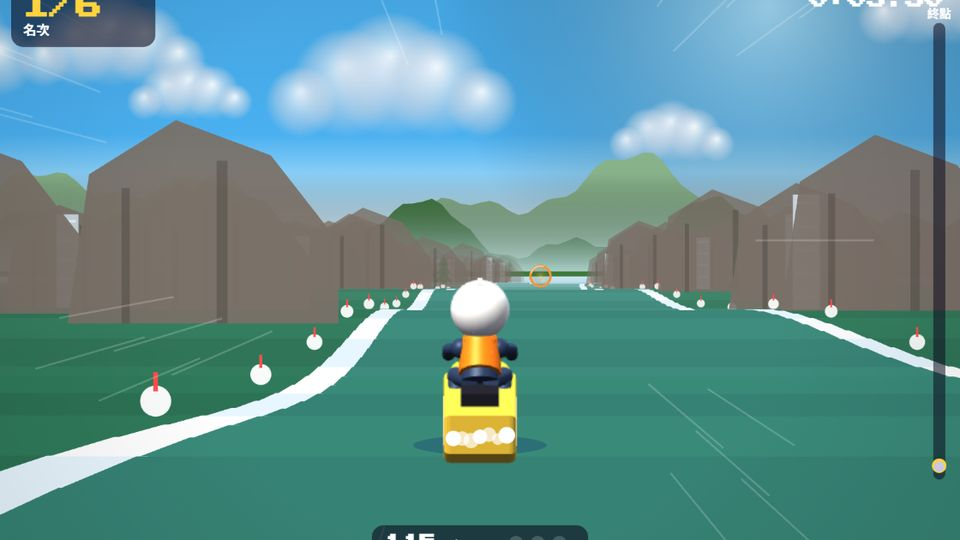
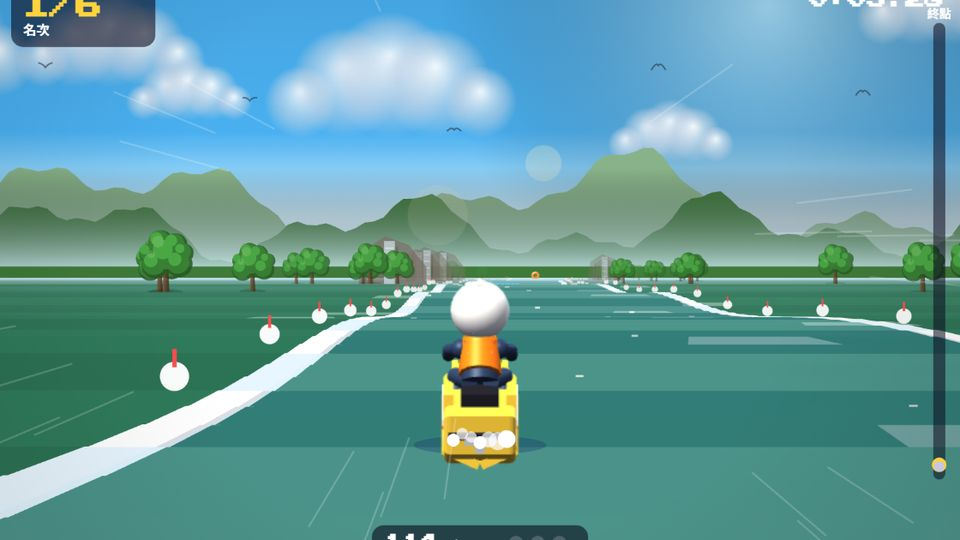
v264 快艇、機車、推桿、撞球、枕頭戰畫面精緻化；推桿與撞球鏡頭更立體、加周圍景色與房間佈置；封面更新

diff --git a/golf3d.js b/golf3d.js
@@ -19,7 +19,7 @@ function make(T,o){ const {W,H,CS,GW,GH,OX,OY,BR,HR,TT,hash,drawStatic,ci}=o,PI=
   /* 每一洞要重建的東西都放在 holeG */
   let holeG=null,O=null,dyn=null,waterCv=null,waterTx=null,waterM=null;
   const railM=ph(TT.railC,TT.rail==='metal'?90:15),capM=ph(new T.Color(TT.railC).multiplyScalar(1.15).getStyle(),20);
-  const decoMesh=(k,x,z,rr)=>{ const g=new T.Group(); g.position.set(x,0,z); holeG.add(g);
+  const decoMesh=(k,x,z,rr,par,sc)=>{ const g=new T.Group(); g.position.set(x,0,z); if(sc){ g.scale.setScalar(sc); g.rotation.y=rr*7; } (par||holeG).add(g);
     if(k==='tree'||k==='rose'||k==='fern'){ const tr=add(new T.CylinderGeometry(.06,.09,.6,8),ph('#6a4a2a'),0,.3,0,g); const leaf=ph(k==='fern'?'#2a6a28':'#3f8a32'); for(let i=0;i<5;i++) add(new T.SphereGeometry(.28+hash(i+x)*.08,10,8),leaf,Math.cos(i*1.26)*.18,.75+(i%2)*.15,Math.sin(i*1.26)*.18,g); if(k==='rose') for(let i=0;i<6;i++) add(new T.SphereGeometry(.05,6,5),ph(['#e8304a','#ff7eb6','#fff'][i%3]),Math.cos(i)*.3,.85+Math.sin(i*2)*.15,Math.sin(i)*.3,g); }
     else if(k==='pine'){ add(new T.CylinderGeometry(.05,.07,.3,8),ph('#5a3a22'),0,.15,0,g); for(let i=0;i<3;i++) add(new T.ConeGeometry(.42-i*.1,.5,10),ph(i%2?'#2f5a3a':'#3a6a44'),0,.45+i*.3,0,g); add(new T.ConeGeometry(.12,.18,10),ph('#ffffff'),0,1.18,0,g); }
     else if(k==='cactus'){ const cm=ph('#4a8a3a'); add(new T.CylinderGeometry(.1,.11,.8,10),cm,0,.4,0,g); for(const s of [-1,1]){ const a=add(new T.CylinderGeometry(.06,.06,.3,8),cm,s*.17,.5+s*.08,0,g); add(new T.CylinderGeometry(.06,.06,.18,8),cm,s*.1,.4+s*.08,0,g).rotation.z=PI/2; } }
@@ -27,21 +27,37 @@ function make(T,o){ const {W,H,CS,GW,GH,OX,OY,BR,HR,TT,hash,drawStatic,ci}=o,PI=
     else if(k==='vent'){ add(new T.BoxGeometry(.5,.35,.4),ph('#a8b0bc',60),0,.18,0,g); }
     else if(k==='plank'){ add(new T.BoxGeometry(.6,.05,.6),ph('#8a6038'),0,.02,0,g); }
     else if(k==='star'){ add(new T.SphereGeometry(.06,6,5),new T.MeshBasicMaterial({color:0xcfe0ff}),0,.8+rr*2,0,g); } };
+  /* 周圍景色：天空、遠山、四周的樹與雲，讓球場像在真的地方 */
+  const envG=new T.Group(); scene.add(envG); const hz=TT.sky||(space?'#05060f':TT.haz==='lava'?'#3a1a14':'#a8d4f0');
+  { const sc=document.createElement('canvas'); sc.width=8; sc.height=256; const x=sc.getContext('2d'),g=x.createLinearGradient(0,0,0,256); g.addColorStop(0,space?'#000008':TT.haz==='lava'?'#120608':TT.deco==='pine'?'#6a9ad8':'#3a7ae0'); g.addColorStop(.5,hz); g.addColorStop(1,space?'#141838':TT.haz==='lava'?'#5a2010':'#e8f4ff'); x.fillStyle=g; x.fillRect(0,0,8,256);
+    const dome=new T.Mesh(new T.SphereGeometry(90,24,16),new T.MeshBasicMaterial({map:new T.CanvasTexture(sc),side:T.BackSide,fog:false})); scene.add(dome);
+    if(night){ const sg=new T.BufferGeometry(),pts=[]; for(let i=0;i<500;i++){ const a=hash(i*3.1)*PI*2,b=hash(i*7.7)*.5+.05,R=85; pts.push(Math.cos(a)*Math.cos(b)*R,Math.sin(b)*R,Math.sin(a)*Math.cos(b)*R); } sg.setAttribute('position',new T.Float32BufferAttribute(pts,3)); scene.add(new T.Points(sg,new T.PointsMaterial({color:0xffffff,size:.35,fog:false}))); }
+    scene.fog=new T.Fog(new T.Color(hz),30,85); scene.background=null; }
+  { const tc=document.createElement('canvas'); tc.width=tc.height=128; const x=tc.getContext('2d'); x.fillStyle=TT.out; x.fillRect(0,0,128,128); for(let i=0;i<900;i++){ x.fillStyle=i%3?TT.out2:'rgba(0,0,0,.08)'; x.fillRect(hash(i*1.3)*128,hash(i*2.9)*128,1+hash(i)*2,1+hash(i*5)*2); } const tx=new T.CanvasTexture(tc); tx.wrapS=tx.wrapT=T.RepeatWrapping; tx.repeat.set(40,40); outer.material.map=tx; outer.material.color=col('#ffffff'); outer.material.needsUpdate=true; outer.geometry=new T.PlaneGeometry(200,200); }
+  if(TT.outWater){ const wm=new T.MeshPhongMaterial({color:col('#2a78b8'),shininess:90,specular:0x88aacc,transparent:true,opacity:.92}); const wp=add(new T.PlaneGeometry(200,200),wm,0,-.005,0,envG); wp.rotation.x=-PI/2; wp.receiveShadow=false; for(let i=0;i<4;i++){ const b=new T.Group(); b.position.set(-30+i*20,0,-24-hash(i)*8); envG.add(b); add(new T.BoxGeometry(2.4,.5,.9),ph('#e8e0d0'),0,.25,0,b); add(new T.CylinderGeometry(.04,.04,2.4,6),ph('#8a6a4a'),0,1.5,0,b); const sl=add(new T.ConeGeometry(.8,1.8,3),ph('#ffffff'),.3,1.6,0,b); sl.rotation.z=.1; } }
+  const hillC=TT.haz==='lava'?'#2a1a1c':space?null:TT.deco==='pine'?'#e8f0f8':TT.deco==='cactus'?'#d0a060':TT.deco==='vent'?null:'#5a8a5a';
+  if(hillC) for(let i=0;i<18;i++){ const a=i/18*PI*2+hash(i)*.2,R=48+hash(i*3)*14,h=6+hash(i*5)*10; const m=add(new T.ConeGeometry(8+hash(i*7)*8,h,7),new T.MeshLambertMaterial({color:col(hillC).offsetHSL(0,0,(hash(i*9)-.5)*.12),flatShading:true}),Math.cos(a)*R,h/2-.5,Math.sin(a)*R,envG); m.castShadow=false; if(TT.deco==='pine'){ add(new T.ConeGeometry(3,h*.3,7),ph('#ffffff'),Math.cos(a)*R,h*.86,Math.sin(a)*R,envG).castShadow=false; } if(TT.haz==='lava'&&i%5===0){ const gl=add(new T.SphereGeometry(1.4,8,6),new T.MeshBasicMaterial({color:0xff6a2a}),Math.cos(a)*R,h-.3,Math.sin(a)*R,envG); gl.castShadow=false; } }
+  if(TT.deco==='vent'){ for(let i=0;i<26;i++){ const a=i/26*PI*2,R=40+hash(i*3)*18,h=6+hash(i*5)*22,w=3+hash(i)*4; const b=add(new T.BoxGeometry(w,h,w),ph(['#8a94a8','#6a7488','#a8b0c0'][i%3]),Math.cos(a)*R,h/2-2,Math.sin(a)*R,envG); b.castShadow=false; } }
+  if(space){ const pl=add(new T.SphereGeometry(6,24,16),ph('#c88a5a',10),-30,18,-50,envG); pl.castShadow=false; const rg=add(new T.TorusGeometry(9,.6,6,40),new T.MeshBasicMaterial({color:0xe8c8a0,transparent:true,opacity:.6}),-30,18,-50,envG); rg.rotation.x=1.2; add(new T.SphereGeometry(2.5,16,12),ph('#7ab0ff',10),34,12,-40,envG).castShadow=false; }
+  // 四周的樹（外圈，不擋到球場）
+  if(TT.deco!=='star'&&TT.deco!=='vent'&&!TT.outWater) for(let i=0;i<70;i++){ const a=hash(i*1.7)*PI*2,R=12.5+hash(i*4.1)*20,x=Math.cos(a)*R*1.25,z=Math.sin(a)*R*.8-3; if(Math.abs(x)<10.5&&Math.abs(z)<7) continue; if(z>5.5&&Math.abs(x)<17) continue; /* 鏡頭前面不放樹，免得擋住球場 */ decoMesh(TT.deco==='rake'?(i%3?'tree':'rake'):TT.deco==='plank'?'tree':TT.deco,x,z,hash(i*9),envG,1.6+hash(i*2.3)*1.6); }
+  if(TT.deco==='rake'){ for(let i=0;i<6;i++){ const g=new T.Group(); g.position.set(-14+i*5.6,0,-9.5); envG.add(g); add(new T.BoxGeometry(.6,.5,.6),ph('#a8a49a'),0,.25,0,g); add(new T.BoxGeometry(.3,.6,.3),ph('#b8b4aa'),0,.8,0,g); add(new T.BoxGeometry(.9,.15,.9),ph('#8a867c'),0,1.15,0,g); const lt=add(new T.BoxGeometry(.2,.2,.2),new T.MeshBasicMaterial({color:0xffe0a0}),0,.85,0,g); lt.castShadow=false; } }
+  const clouds=[]; if(!night) for(let i=0;i<9;i++){ const g=new T.Group(); g.position.set(-50+i*12+hash(i)*6,16+hash(i*3)*6,-30-hash(i*5)*25); envG.add(g); const cm=new T.MeshLambertMaterial({color:0xffffff,emissive:0x8899aa,emissiveIntensity:.35}); for(let k=0;k<5;k++){ const m=new T.Mesh(new T.SphereGeometry(1.4+hash(i*k+1)*1.2,10,8),cm); m.position.set(k*1.5-3,Math.sin(k)*.6,hash(k+i)*1.2); m.scale.y=.6; g.add(m); } clouds.push(g); }
   function buildHole(oo){ O=oo; if(holeG){ scene.remove(holeG); holeG.traverse(m=>{ if(m.geometry) m.geometry.dispose(); }); } holeG=new T.Group(); scene.add(holeG);
     const gc=gcv.getContext('2d'); gc.setTransform(2,0,0,2,0,0); drawStatic(gc,oo,TT,ci,true); gtx.needsUpdate=true;
-    const solid=(x,y)=>x<0||y<0||x>=GW||y>=GH||oo.g[y][x]==='#',RT=.16,RHh=.16;
+    const solid=(x,y)=>x<0||y<0||x>=GW||y>=GH||oo.g[y][x]==='#',RT=.16,RHh=.16; let maxRow=0; for(let y=0;y<GH;y++) if(/[^#]/.test(oo.g[y].join?oo.g[y].join(''):oo.g[y])) maxRow=y;
     for(let y=0;y<GH;y++) for(let x=0;x<GW;x++){ if(oo.g[y][x]==='#') continue; const cx=x-GW/2,cz=y-GH/2;
       if(solid(x,y-1)) add(new T.BoxGeometry(1+RT,RHh,RT),railM,cx+.5,RHh/2,cz,holeG); if(solid(x,y+1)) add(new T.BoxGeometry(1+RT,RHh,RT),railM,cx+.5,RHh/2,cz+1,holeG);
       if(solid(x-1,y)) add(new T.BoxGeometry(RT,RHh,1+RT),railM,cx,RHh/2,cz+.5,holeG); if(solid(x+1,y)) add(new T.BoxGeometry(RT,RHh,1+RT),railM,cx+1,RHh/2,cz+.5,holeG); }
     for(let y=1;y<GH-1;y++) for(let x=1;x<GW-1;x++){ if(oo.g[y][x]!=='#') continue; let n=0; for(const [dx,dy] of [[1,0],[-1,0],[0,1],[0,-1]]) if(!solid(x+dx,y+dy)) n++; if(n>=2){ add(new T.BoxGeometry(.96,.32,.96),railM,x-GW/2+.5,.16,y-GH/2+.5,holeG); add(new T.BoxGeometry(.98,.04,.98),capM,x-GW/2+.5,.34,y-GH/2+.5,holeG); } }
-    for(let y=0;y<GH;y++) for(let x=0;x<GW;x++){ if(oo.g[y][x]!=='#') continue; let near=false; for(let dy=-1;dy<=1;dy++) for(let dx=-1;dx<=1;dx++) if(!solid(x+dx,y+dy)) near=true; if(near) continue; const rr=hash(x*13+y*29+ci*5); if(rr>.42) continue; decoMesh(TT.deco,X(OX+x*CS+CS/2+(hash(x+y*3)-.5)*14),Z(OY+y*CS+CS/2+(hash(x*5+y)-.5)*14),rr); }
+    for(let y=0;y<GH;y++) for(let x=0;x<GW;x++){ if(oo.g[y][x]!=='#') continue; let near=false; for(let dy=-1;dy<=1;dy++) for(let dx=-1;dx<=1;dx++) if(!solid(x+dx,y+dy)) near=true; if(near) continue; const rr=hash(x*13+y*29+ci*5); if(rr>.42) continue; const front=y>maxRow; decoMesh(TT.deco,X(OX+x*CS+CS/2+(hash(x+y*3)-.5)*14),Z(OY+y*CS+CS/2+(hash(x*5+y)-.5)*14),rr,null,front?.42:0); } /* 球場前方的裝飾做矮一點，鏡頭斜看時才不會擋住 */
     for(const [px,py] of oo.bump){ const b=add(new T.CylinderGeometry(12/CS,13/CS,.28,20),ph('#c8ccd6',100),X(px),.14,Z(py),holeG); add(new T.CylinderGeometry(5/CS,5/CS,.3,14),ph('#e8402a',60),X(px),.16,Z(py),holeG); }
     for(const k of 'ABCD'){ const p=oo.tun[k]; if(!p) continue; const ring=add(new T.TorusGeometry(13/CS,4/CS,8,20),ph(TT.rail==='metal'?'#9aa4b0':'#7a7468'),X(p[0]),.03,Z(p[1]),holeG); ring.rotation.x=PI/2; }
     dyn={mills:oo.mill.map(m=>{ const g=new T.Group(); g.position.set(X(m.x),0,Z(m.y)); holeG.add(g); add(new T.CylinderGeometry(9/CS,10/CS,.5,14),ph('#b05a3a'),0,.25,0,g); add(new T.ConeGeometry(12/CS,.3,14),ph('#7a3a2a'),0,.65,0,g);
         const rot=new T.Group(); rot.position.y=.12; g.add(rot); for(let k=0;k<4;k++){ const b=add(new T.BoxGeometry(30/CS,.14,5/CS),ph('#e8dcc0'),15/CS+5/CS,0,0,rot); b.position.x=(5+15)/CS; const p=new T.Group(); p.rotation.y=-k*PI/2; p.add(b); rot.add(p); } return {m,rot}; }),
       gates:oo.gate.map(gt=>{ const b=add(new T.BoxGeometry((CS-6)/CS,.3,(CS-6)/CS),railM,0,.15,0,holeG); add(new T.BoxGeometry((CS-6)/CS,.05,.12),ph('#ffd23f'),0,.17,0,b).position.set(0,.16,0); return {gt,b}; })};
     // 球洞旗
-    const fl=new T.Group(); fl.position.set(X(oo.hole[0]),0,Z(oo.hole[1])); holeG.add(fl); add(new T.CylinderGeometry(.015,.015,1.3,6),ph('#eeeeee',80),0,.65,0,fl);
+    const fl=new T.Group(); fl.position.set(X(oo.hole[0]),0,Z(oo.hole[1])); holeG.add(fl); add(new T.CylinderGeometry(.015,.015,1.3,6),ph('#eeeeee',80),0,.65,0,fl); add(new T.SphereGeometry(.035,10,8),ph('#ffd23f',90),0,1.31,0,fl); const cup=add(new T.TorusGeometry(HR/CS*1.05,.012,6,24),ph('#f4f4f4',60),X(oo.hole[0]),.006,Z(oo.hole[1]),holeG); cup.rotation.x=PI/2; cup.castShadow=false;
     const cloth=new T.Mesh(new T.PlaneGeometry(.5,.32,8,1),new T.MeshLambertMaterial({color:0xe8231c,side:T.DoubleSide})); cloth.position.set(.25,1.12,0); cloth.castShadow=true; fl.add(cloth); dyn.flag=fl; dyn.cloth=cloth;
     // 會動的水面（有水的洞才做）
     const hasW=oo.g.some(rw=>rw.includes('W')); if(hasW){ waterCv=document.createElement('canvas'); waterCv.width=W; waterCv.height=H; waterTx=new T.CanvasTexture(waterCv); waterM=new T.MeshBasicMaterial({map:waterTx,transparent:true,depthWrite:false}); const wp=add(new T.PlaneGeometry(gw,gh),waterM,X(W/2),.01,Z(H/2),holeG); wp.rotation.x=-PI/2; wp.castShadow=wp.receiveShadow=false; } else waterCv=null; }
@@ -55,7 +71,7 @@ function make(T,o){ const {W,H,CS,GW,GH,OX,OY,BR,HR,TT,hash,drawStatic,ci}=o,PI=
   const ballOf=(i,c)=>{ if(balls[i]) return balls[i]; const m=add(ballGeo,ph(c,110)); return balls[i]=m; };
   const aimG=new T.BufferGeometry(),aim=new T.Line(aimG,new T.LineDashedMaterial({color:0xffffff,dashSize:.12,gapSize:.12,transparent:true,opacity:.9})); scene.add(aim);
   const arrow=add(new T.ConeGeometry(.08,.2,10),new T.MeshBasicMaterial({color:0xffffff})); arrow.castShadow=false;
-  const cam=new T.PerspectiveCamera(44,W/H,.05,120),cp=new T.Vector3(),cl=new T.Vector3(),tp=new T.Vector3(),tl=new T.Vector3(),tmp=new T.Vector3(),ray=new T.Raycaster(),plane=new T.Plane(new T.Vector3(0,1,0),0);
+  const cam=new T.PerspectiveCamera(42,W/H,.05,200),cp=new T.Vector3(),cl=new T.Vector3(),tp=new T.Vector3(),tl=new T.Vector3(),tmp=new T.Vector3(),ray=new T.Raycaster(),plane=new T.Plane(new T.Vector3(0,1,0),0);
   let view='top',first=true,lastO=null;
   return {canvas:cv,get view(){ return view; },toggle(){ view=view==='top'?'ball':'top'; },
     toTable(sx,sy){ ray.setFromCamera(new T.Vector2(sx/W*2-1,-(sy/H)*2+1),cam); const p=ray.ray.intersectPlane(plane,tmp); return p?[(p.x+GW/2)*CS+OX,(p.z+GH/2)*CS+OY]:[sx,sy]; },
@@ -63,6 +79,7 @@ function make(T,o){ const {W,H,CS,GW,GH,OX,OY,BR,HR,TT,hash,drawStatic,ci}=o,PI=
     render(s){ if(s.o!==lastO){ lastO=s.o; buildHole(s.o); }
       const t=s.t; if(dyn){ for(const d of dyn.mills) d.rot.rotation.y=-o.millAng(d.m,s.tt); for(const d of dyn.gates){ d.b.position.set(X(OX+d.gt.gx*CS+CS/2),.15,Z(o.gateY(d.gt,s.tt)+CS/2)); }
         dyn.flag.position.y=Math.min(1.2,s.lift/40); const pa=dyn.cloth.geometry.attributes.position; for(let i=0;i<pa.count;i++){ const u=(pa.getX(i)+.25)/.5; pa.setZ(i,Math.sin(t*5-u*4)*.04*u); } pa.needsUpdate=true; }
+      for(const g of clouds){ g.position.x+=.01; if(g.position.x>60) g.position.x=-60; }
       if(waterCv){ const c=waterCv.getContext('2d'); c.clearRect(0,0,W,H); o.drawDynamic(c,O,TT,s.tt,true); waterTx.needsUpdate=true; }
       // 球
       const seen=new Set(); s.balls.forEach(b=>{ const m=ballOf(b.i,b.col); seen.add(b.i); m.position.set(X(b.x),BRw,Z(b.y)); m.material.transparent=b.alpha<1; m.material.opacity=b.alpha; m.visible=true; });
@@ -77,7 +94,7 @@ function make(T,o){ const {W,H,CS,GW,GH,OX,OY,BR,HR,TT,hash,drawStatic,ci}=o,PI=
       aim.visible=arrow.visible=!!s.aim; if(s.aim){ const A=s.aim,ex=A.x+Math.cos(A.ang)*A.len,ey=A.y+Math.sin(A.ang)*A.len; aimG.setFromPoints([new T.Vector3(X(A.x),.03,Z(A.y)),new T.Vector3(X(ex),.03,Z(ey))]); aim.computeLineDistances(); arrow.position.set(X(ex),.05,Z(ey)); arrow.rotation.set(PI/2,0,-Math.atan2(Math.sin(A.ang),Math.cos(A.ang))+PI/2); arrow.rotation.order='YXZ'; arrow.rotation.set(PI/2,-A.ang+PI/2,0); }
       // 鏡頭：俯瞰整洞，或站在球後面
       const fb=s.focus; if(view==='ball'&&fb){ const dx=Math.cos(fb.ang),dz=Math.sin(fb.ang); tp.set(X(fb.x)-dx*3.2,2.2,Z(fb.y)-dz*3.2); tl.set(X(fb.x)+dx*2.5,0,Z(fb.y)+dz*2.5); }
-      else { tp.set(0,10.5,8.6); tl.set(0,0,.6); }
+      else { tp.set(0,6.9,11.4); tl.set(0,-.4,-.2); }
       if(first){ cp.copy(tp); cl.copy(tl); first=false; } else { cp.lerp(tp,.1); cl.lerp(tl,.1); }
       cam.position.copy(cp); cam.lookAt(cl); r.render(scene,cam); },
     destroy(){ scene.traverse(m=>{ if(m.geometry) m.geometry.dispose(); if(m.material){ if(m.material.map) m.material.map.dispose(); m.material.dispose(); } }); r.dispose(); try{ r.forceContextLoss(); }catch(e){} } }; }

diff --git a/brawl.js b/brawl.js
@@ -497,7 +497,7 @@ function createPillow(env,opts){
     const list=F.slice().sort((a,b)=>a.y-b.y);
     for(const f of list){ if(f.fall>0){ c.save(); c.globalAlpha=Math.max(0,f.fall-.8); const s=Math.max(.2,f.fall/1.6); c.translate(f.x,f.y); c.scale(s,s); c.translate(-f.x,-f.y); person(c,f.x,f.y,R.looks[f.i],f.i,1,false,t,1.15); c.restore(); continue; }
       if(f.inv>0&&Math.floor(t*12)%2) c.globalAlpha=.5;
-      const moving=Math.hypot(f.vx,f.vy)>30,tr=zoneAt(f.x,f.y,'tramp'),hop=tr?Math.abs(Math.sin(t*7+f.i))*10:0;
+      const moving=Math.hypot(f.vx,f.vy)>30,tr=zoneAt(f.x,f.y,'tramp'),hop=tr?Math.abs(Math.sin(t*7+f.i))*10:0; c.fillStyle='rgba(0,0,0,'+(.22-hop*.01)+')'; c.beginPath(); c.ellipse(f.x,f.y+3,15-hop*.4,5,0,0,7); c.fill();
       if(f.spd>0){ c.fillStyle='rgba(120,220,255,.4)'; c.beginPath(); c.ellipse(f.x,f.y+2,18,6,0,0,7); c.fill(); }
       // 枕頭：揮的時候往面向的方向畫弧，不然拿在旁邊
       const sw=f.swing>0?(1-f.swing/.28):-1,ang=Math.atan2(f.fy,f.fx);
@@ -527,32 +527,42 @@ function createPillow(env,opts){
   return {update,draw,destroy(){},_dbg:{F,R,get t(){return t;},get timeLeft(){return timeLeft;},skip(){ intro=0; cd=0; }}};
 }
 function drawPillow(c,x,y,a,s,t,held){ c.save(); c.translate(x,y); c.rotate(a||0); c.scale(s||1,s||1);
-  if(!held){ c.fillStyle='rgba(0,0,0,.18)'; c.beginPath(); c.ellipse(1,6,16,5,0,0,7); c.fill(); }
-  c.fillStyle='#fdfcff'; c.beginPath(); c.moveTo(-15,-8); c.quadraticCurveTo(0,-13,15,-8); c.quadraticCurveTo(19,0,15,8); c.quadraticCurveTo(0,13,-15,8); c.quadraticCurveTo(-19,0,-15,-8); c.fill();
-  c.strokeStyle='#b8b4d0'; c.lineWidth=1.3; c.stroke(); c.strokeStyle='rgba(120,160,255,.6)'; c.lineWidth=2; c.beginPath(); c.moveTo(-9,-6); c.lineTo(-9,6); c.moveTo(9,-6); c.lineTo(9,6); c.stroke(); c.restore(); }
+  if(!held){ c.fillStyle='rgba(0,0,0,.2)'; c.beginPath(); c.ellipse(2,7,17,5.5,0,0,7); c.fill(); }
+  const sh=()=>{ c.beginPath(); c.moveTo(-15,-8); c.quadraticCurveTo(0,-13,15,-8); c.quadraticCurveTo(19,0,15,8); c.quadraticCurveTo(0,13,-15,8); c.quadraticCurveTo(-19,0,-15,-8); };
+  const g=c.createRadialGradient(-5,-5,2,0,0,20); g.addColorStop(0,'#ffffff'); g.addColorStop(.7,'#f2f0fa'); g.addColorStop(1,'#d4d0e8'); c.fillStyle=g; sh(); c.fill();
+  c.save(); sh(); c.clip(); c.fillStyle='rgba(140,170,255,.28)'; for(let k=-2;k<=2;k++){ c.beginPath(); c.arc(k*7,(k%2)*5-2,1.8,0,7); c.fill(); } c.fillStyle='rgba(255,150,190,.25)'; for(let k=-2;k<=1;k++){ c.beginPath(); c.arc(k*7+3.5,3-(k%2)*5,1.5,0,7); c.fill(); } c.restore();
+  c.strokeStyle='#a8a4c8'; c.lineWidth=1.3; sh(); c.stroke(); c.setLineDash([2,2]); c.strokeStyle='rgba(120,120,170,.45)'; c.lineWidth=.8; c.beginPath(); c.moveTo(-12,-6); c.quadraticCurveTo(0,-10,12,-6); c.moveTo(-12,6); c.quadraticCurveTo(0,10,12,6); c.stroke(); c.setLineDash([]);
+  c.fillStyle='#e8e4f4'; for(const [px,py] of [[-15,-8],[15,-8],[15,8],[-15,8]]){ c.beginPath(); c.arc(px,py,2.2,0,7); c.fill(); }
+  c.fillStyle='rgba(255,255,255,.8)'; c.beginPath(); c.ellipse(-6,-5,5,2,-.3,0,7); c.fill(); c.restore(); }
 function pillowRoom(c,ST,TH,OBS,ZN,t){
   c.fillStyle=TH.wall; c.fillRect(0,0,W,H);
   c.fillStyle=TH.floor; c.fillRect(AX0,AY0,AX1-AX0,AY1-AY0);
+  { const fg=c.createLinearGradient(0,AY0,0,AY1); fg.addColorStop(0,'rgba(0,0,0,.12)'); fg.addColorStop(.3,'rgba(0,0,0,0)'); fg.addColorStop(1,'rgba(0,0,0,.08)'); c.fillStyle=fg; c.fillRect(AX0,AY0,AX1-AX0,AY1-AY0); }
   c.strokeStyle=TH.line; c.lineWidth=1;
   if(TH.tatami){ c.lineWidth=3; for(let x=AX0;x<AX1;x+=148) for(let y=AY0;y<AY1;y+=86) c.strokeRect(x,y,148,86); }
   else if(TH.grass){ c.fillStyle='rgba(30,80,25,.25)'; for(let i=0;i<120;i++) c.fillRect(AX0+(i*137)%(AX1-AX0),AY0+(i*71)%(AY1-AY0),3,6); }
   else if(ST.th==='space'){ c.strokeStyle='rgba(61,219,217,.25)'; for(let x=AX0;x<AX1;x+=40){ c.beginPath(); c.moveTo(x,AY0); c.lineTo(x,AY1); c.stroke(); } for(let y=AY0;y<AY1;y+=40){ c.beginPath(); c.moveTo(AX0,y); c.lineTo(AX1,y); c.stroke(); } }
-  else for(let y=AY0+24;y<AY1;y+=24){ c.beginPath(); c.moveTo(AX0,y); c.lineTo(AX1,y); c.stroke(); }
+  else { for(let y=AY0,row=0;y<AY1;y+=24,row++){ c.beginPath(); c.moveTo(AX0,y); c.lineTo(AX1,y); c.stroke(); for(let x=AX0+((row*67)%120);x<AX1;x+=120+((row*31)%40)){ c.beginPath(); c.moveTo(x,y); c.lineTo(x,y+24); c.stroke(); } c.fillStyle='rgba(255,255,255,.05)'; c.fillRect(AX0,y+2,AX1-AX0,3); c.fillStyle='rgba(0,0,0,.04)'; for(let k=0;k<6;k++){ const gx=AX0+((row*131+k*197)%(AX1-AX0)); c.fillRect(gx,y+9+(k%3)*4,40+(k*13)%40,1); } } }
   if(TH.rug){ c.fillStyle=TH.rug; rr(c,W/2-150,H/2-70,300,160,30); c.fill(); c.strokeStyle='rgba(255,220,150,.6)'; c.lineWidth=4; rr(c,W/2-140,H/2-60,280,140,24); c.stroke(); }
-  for(const z of ZN){ if(z.k==='tramp'){ c.fillStyle='#3d8bff'; rr(c,z.x,z.y,z.w,z.h,16); c.fill(); c.fillStyle='#f4f8ff'; rr(c,z.x+8,z.y+8,z.w-16,z.h-16,12); c.fill(); c.fillStyle='rgba(61,139,255,.25)'; for(let k=0;k<3;k++){ c.beginPath(); c.ellipse(z.x+z.w/2,z.y+z.h/2,(z.w-30)/2*(1-k*.3),(z.h-30)/2*(1-k*.3),0,0,7); c.fill(); } c.fillStyle='#5a3a22'; c.font='900 12px '+TC; c.textAlign='center'; c.textBaseline='middle'; c.fillText('彈跳床',z.x+z.w/2,z.y+z.h/2); }
+  for(const z of ZN){ if(z.k==='tramp'){ c.fillStyle='rgba(0,0,0,.22)'; rr(c,z.x+5,z.y+8,z.w,z.h,16); c.fill(); c.fillStyle='#2a6ad8'; rr(c,z.x,z.y,z.w,z.h,16); c.fill(); c.fillStyle='#5aa0ff'; rr(c,z.x,z.y,z.w,8,8); c.fill(); c.fillStyle='#3a3a44'; rr(c,z.x+9,z.y+9,z.w-18,z.h-18,12); c.fill();
+      c.strokeStyle='#c8ccd6'; c.lineWidth=1.5; for(let k=0;k<16;k++){ const u=k/16,px=z.x+12+u*(z.w-24); c.beginPath(); c.moveTo(px,z.y+9); c.lineTo(px,z.y+16); c.moveTo(px,z.y+z.h-9); c.lineTo(px,z.y+z.h-16); c.stroke(); }
+      const mg=c.createRadialGradient(z.x+z.w*.4,z.y+z.h*.35,6,z.x+z.w/2,z.y+z.h/2,z.w*.6); mg.addColorStop(0,'#ffffff'); mg.addColorStop(1,'#d4e4ff'); c.fillStyle=mg; rr(c,z.x+16,z.y+16,z.w-32,z.h-32,10); c.fill(); c.fillStyle='rgba(61,139,255,.22)'; for(let k=0;k<3;k++){ c.beginPath(); c.ellipse(z.x+z.w/2,z.y+z.h/2,(z.w-40)/2*(1-k*.3),(z.h-40)/2*(1-k*.3),0,0,7); c.fill(); } c.fillStyle='#5a3a22'; c.font='900 12px '+TC; c.textAlign='center'; c.textBaseline='middle'; c.fillText('彈跳床',z.x+z.w/2,z.y+z.h/2); }
     else if(z.k==='ice'){ c.fillStyle='rgba(170,220,255,.55)'; c.fillRect(z.x,z.y,z.w,z.h); c.strokeStyle='rgba(255,255,255,.7)'; c.lineWidth=1; for(let i=0;i<12;i++){ c.beginPath(); c.moveTo(z.x+(i*97)%z.w,z.y+(i*43)%z.h); c.lineTo(z.x+(i*97)%z.w+30,z.y+(i*43)%z.h+10); c.stroke(); } }
     else if(z.k==='water'){ c.fillStyle='#4aa8e8'; rr(c,z.x,z.y,z.w,z.h,14); c.fill(); c.strokeStyle='rgba(255,255,255,.5)'; c.lineWidth=2; for(let i=0;i<6;i++){ c.beginPath(); const yy=z.y+12+i*z.h/6; for(let x=z.x+6;x<z.x+z.w-6;x+=8) c.lineTo(x,yy+Math.sin(x/12+t*3)*2); c.stroke(); } }
     else if(z.k==='hole'){ c.fillStyle=TH.holeCol||'#14122b'; rr(c,z.x,z.y,z.w,z.h,18); c.fill(); if(TH.holeCol){ c.fillStyle='rgba(255,255,255,.7)'; for(let i=0;i<3;i++){ c.beginPath(); c.arc(z.x+20+i*30+Math.sin(t+i)*6,z.y+z.h/2,10,0,7); c.fill(); } } else { const g=c.createRadialGradient(z.x+z.w/2,z.y+z.h/2,4,z.x+z.w/2,z.y+z.h/2,Math.max(z.w,z.h)/2); g.addColorStop(0,'#000'); g.addColorStop(1,'#3a2a4a'); c.fillStyle=g; rr(c,z.x,z.y,z.w,z.h,18); c.fill(); } c.fillStyle='#fff'; c.font='900 11px '+TC; c.textAlign='center'; c.textBaseline='middle'; c.fillText('小心掉下去',z.x+z.w/2,z.y+z.h/2); } }
+  if(!['space','museum','camp'].includes(ST.th)){ c.save(); c.globalAlpha=.13; c.fillStyle='#fff8d8'; for(const x0 of [140,520]){ c.beginPath(); c.moveTo(x0,AY0); c.lineTo(x0+110,AY0); c.lineTo(x0+190,AY0+230); c.lineTo(x0+60,AY0+230); c.fill(); } c.restore(); } /* 窗戶照進來的光 */
   for(const o of OBS) drawObs(c,o,TH,t);
+  c.fillStyle='rgba(0,0,0,.22)'; c.fillRect(AX0,AY0,AX1-AX0,8); c.fillStyle='rgba(255,255,255,.18)'; c.fillRect(AX0,AY0+8,AX1-AX0,2); /* 牆邊踢腳板的陰影 */
+  { const vg=c.createRadialGradient(W/2,(AY0+AY1)/2,140,W/2,(AY0+AY1)/2,520); vg.addColorStop(0,'rgba(0,0,0,0)'); vg.addColorStop(1,'rgba(20,10,30,.28)'); c.fillStyle=vg; c.fillRect(AX0,AY0,AX1-AX0,AY1-AY0); }
   c.strokeStyle='rgba(0,0,0,.35)'; c.lineWidth=4; c.strokeRect(AX0,AY0,AX1-AX0,AY1-AY0); }
 function drawObs(c,o,TH,t){ const {x,y,w,h}=o; c.fillStyle='rgba(0,0,0,.18)'; rr(c,x+4,y+6,w,h,8); c.fill();
   switch(o.k){
-    case 'bed': c.fillStyle='#8a5a32'; rr(c,x,y,w,h,8); c.fill(); c.fillStyle='#f4f4fa'; rr(c,x+6,y+6,w-12,h-12,6); c.fill(); c.fillStyle='#7ab0e8'; rr(c,x+6,y+h*.35,w-12,h*.6,6); c.fill(); drawPillow(c,x+w/2,y+h*.2,0,w/60,t,true); break;
-    case 'ward': c.fillStyle='#a8784a'; rr(c,x,y,w,h,4); c.fill(); c.strokeStyle='rgba(0,0,0,.25)'; c.lineWidth=2; c.beginPath(); c.moveTo(x+w/2,y+4); c.lineTo(x+w/2,y+h-4); c.stroke(); break;
+    case 'bed': c.fillStyle='#6a4024'; rr(c,x-3,y-8,w+6,16,6); c.fill(); c.fillStyle='#8a5a32'; rr(c,x,y,w,h,8); c.fill(); c.fillStyle='#f4f4fa'; rr(c,x+6,y+6,w-12,h-12,6); c.fill(); { const bg=c.createLinearGradient(x,y+h*.35,x,y+h); bg.addColorStop(0,'#8ac0f4'); bg.addColorStop(1,'#5a90d8'); c.fillStyle=bg; rr(c,x+6,y+h*.35,w-12,h*.6,6); c.fill(); } c.strokeStyle='rgba(30,60,120,.25)'; c.lineWidth=1.5; for(let k=1;k<4;k++){ c.beginPath(); c.moveTo(x+10,y+h*.35+k*h*.14); c.quadraticCurveTo(x+w/2,y+h*.35+k*h*.14+4,x+w-10,y+h*.35+k*h*.14); c.stroke(); } c.fillStyle='rgba(255,255,255,.6)'; rr(c,x+6,y+h*.35,w-12,6,3); c.fill(); drawPillow(c,x+w/2,y+h*.2,0,w/60,t,true); break;
+    case 'ward': { const wg=c.createLinearGradient(x,y,x+w,y); wg.addColorStop(0,'#b8885a'); wg.addColorStop(1,'#8a5a32'); c.fillStyle=wg; rr(c,x,y,w,h,4); c.fill(); } c.fillStyle='rgba(255,255,255,.15)'; c.fillRect(x+3,y+3,w-6,5); c.strokeStyle='rgba(0,0,0,.25)'; c.lineWidth=2; c.beginPath(); c.moveTo(x+w/2,y+4); c.lineTo(x+w/2,y+h-4); c.stroke(); c.fillStyle='#e8c060'; c.fillRect(x+w/2-6,y+h/2-6,3,12); c.fillRect(x+w/2+3,y+h/2-6,3,12); break;
     case 'desk': case 'lowtable': c.fillStyle=o.k==='desk'?'#c8904a':'#7a4a2a'; rr(c,x,y,w,h,6); c.fill(); c.fillStyle='rgba(255,255,255,.2)'; c.fillRect(x+6,y+6,w-12,6); if(o.k==='lowtable'){ c.fillStyle='#f4f0e6'; c.beginPath(); c.arc(x+w*.3,y+h/2,8,0,7); c.arc(x+w*.7,y+h/2,8,0,7); c.fill(); } break;
-    case 'sofa': c.fillStyle='#c84a5a'; rr(c,x,y,w,h,14); c.fill(); c.fillStyle='#e06a7a'; rr(c,x+12,y+14,w-24,h-20,10); c.fill(); break;
+    case 'sofa': c.fillStyle='#a83a4a'; rr(c,x,y,w,h,14); c.fill(); c.fillStyle='#c84a5a'; rr(c,x,y,w,h*.35,12); c.fill(); c.fillStyle='#e06a7a'; rr(c,x+12,y+14,w-24,h-20,10); c.fill(); c.strokeStyle='rgba(120,20,40,.35)'; c.lineWidth=1.5; c.beginPath(); c.moveTo(x+w/2,y+16); c.lineTo(x+w/2,y+h-8); c.stroke(); c.fillStyle='#ffd23f'; rr(c,x+16,y+18,22,18,6); c.fill(); c.fillStyle='rgba(255,255,255,.25)'; c.fillRect(x+14,y+16,w-28,4); break;
     case 'table': c.fillStyle='#a8784a'; c.beginPath(); c.ellipse(x+w/2,y+h/2,w/2,h/2,0,0,7); c.fill(); c.fillStyle='#fff'; c.beginPath(); c.arc(x+w/2,y+h/2,8,0,7); c.fill(); break;
-    case 'plant': c.fillStyle='#c8603a'; rr(c,x+8,y+h*.5,w-16,h*.5,4); c.fill(); c.fillStyle='#3f9a3a'; c.beginPath(); c.arc(x+w/2,y+h*.4,w*.45,0,7); c.fill(); break;
+    case 'plant': c.fillStyle='#c8603a'; rr(c,x+8,y+h*.5,w-16,h*.5,4); c.fill(); c.fillStyle='#a84a2a'; c.fillRect(x+8,y+h*.5,w-16,5); for(let k=0;k<7;k++){ const a=k/7*6.283+.3; c.fillStyle=k%2?'#3f9a3a':'#2f8a32'; c.beginPath(); c.ellipse(x+w/2+Math.cos(a)*w*.22,y+h*.4+Math.sin(a)*h*.18,w*.2,w*.1,a,0,7); c.fill(); } c.fillStyle='#5ab84a'; c.beginPath(); c.arc(x+w/2,y+h*.38,w*.16,0,7); c.fill(); break;
     case 'tent': c.fillStyle='#e8a020'; c.beginPath(); c.moveTo(x,y+h); c.lineTo(x+w/2,y); c.lineTo(x+w,y+h); c.fill(); c.fillStyle='#5a3a10'; c.beginPath(); c.moveTo(x+w*.4,y+h); c.lineTo(x+w/2,y+h*.45); c.lineTo(x+w*.6,y+h); c.fill(); break;
     case 'fire': c.fillStyle='#6a4a2a'; c.fillRect(x+4,y+h*.6,w-8,8); glow(c,x+w/2,y+h/2,w,'rgba(255,160,60,.6)'); c.fillStyle='#ff8a1a'; c.beginPath(); c.moveTo(x+w*.3,y+h*.7); c.quadraticCurveTo(x+w/2,y-Math.sin(t*9)*4,x+w*.7,y+h*.7); c.fill(); break;
     case 'tree': c.fillStyle='#2f7a3a'; c.beginPath(); c.arc(x+w/2,y+h/2,w/2,0,7); c.fill(); c.fillStyle='#3f9a4a'; c.beginPath(); c.arc(x+w*.4,y+h*.4,w*.3,0,7); c.fill(); break;

diff --git a/pool3d.js b/pool3d.js
@@ -17,7 +17,7 @@ function make(T,o){ const {W,H,R,TX0,TX1,TY0,TY1,MX,MY,PK,HEAD,FOOT,ballCol,clot
   /* 房間：木地板、牆、吊燈 */
   const TH=1.75; // 桌面到地板的高度
   const floor=add(new T.PlaneGeometry(40,40),ph('#ffffff',20,{map:tex(512,512,(c,w,h)=>{ for(let i=0;i<16;i++){ c.fillStyle=['#6a4528','#5e3c22','#73502e','#634024'][i%4]; c.fillRect(0,i*h/16,w,h/16); c.fillStyle='rgba(0,0,0,.25)'; c.fillRect(0,i*h/16,w,2); for(let k=0;k<3;k++){ c.fillRect(((i*173+k*211)%w),i*h/16,2,h/16); } } for(let i=0;i<900;i++){ c.fillStyle='rgba(0,0,0,'+Math.random()*.08+')'; c.fillRect(Math.random()*w,Math.random()*h,8+Math.random()*30,1); } },8,8)}),0,-TH,0); floor.rotation.x=-PI/2; floor.receiveShadow=true;
-  const wallM=ph(room,10); for(const [x,z,ry] of [[0,-9,0],[0,9,PI],[-12,0,PI/2],[12,0,-PI/2]]){ const w=add(new T.PlaneGeometry(26,10),wallM,x,3,z); w.rotation.y=ry; }
+  const wallM=ph(room,10); for(const [x,z,ry] of [[0,-6,0],[0,9,PI],[-9,0,PI/2],[9,0,-PI/2]]){ const w=add(new T.PlaneGeometry(26,10),wallM,x,3,z); w.rotation.y=ry; }
   const lamp=new T.Group(); lamp.position.set(0,5.6,0); scene.add(lamp);
   add(new T.BoxGeometry(4.6,.28,.9),ph('#1e3a2a',40),0,0,0,lamp); add(new T.BoxGeometry(4.4,.04,.75),new T.MeshBasicMaterial({color:0xfff6d8}),0,-.15,0,lamp);
   for(const x of [-2,2]) add(new T.CylinderGeometry(.015,.015,4,6),ph('#222',20),x,2.1,0,lamp);
@@ -37,6 +37,31 @@ function make(T,o){ const {W,H,R,TX0,TX1,TY0,TY1,MX,MY,PK,HEAD,FOOT,ballCol,clot
   for(let i=1;i<4;i++){ const z=-oz+(2*oz)*i/4; for(const x of [-ox-RW/2,ox+RW/2]) add(new T.CircleGeometry(.03,4),dm,x,RH-.029,z).rotation.x=-PI/2; }
   const holeM=new T.MeshBasicMaterial({color:0x050404}),leatherM=ph('#2a1810',50);
   for(const p of PK){ const x=wx(p[0]),z=wz(p[1]),rr=p[2]/S*1.05; add(new T.CircleGeometry(rr,24),holeM,x,.004,z).rotation.x=-PI/2; const ring=add(new T.TorusGeometry(rr+.01,.022,6,24),leatherM,x,RH-.04,z); ring.rotation.x=PI/2; ring.scale.z=.45; add(new T.CylinderGeometry(rr+.02,rr*.8,.3,20,1,true),new T.MeshBasicMaterial({color:0x0a0806,side:T.DoubleSide}),x,-.14,z); }
+  /* 房間佈置：護牆板、壁紙、霓虹招牌、海報、球桿架、飛鏢靶、吧台、沙發、盆栽、光束 */
+  { const FY=-TH,rc=col(room),wp=tex(256,256,(c,w,h)=>{ c.fillStyle=room; c.fillRect(0,0,w,h); for(let x=0;x<w;x+=32){ c.fillStyle='rgba(255,255,255,.05)'; c.fillRect(x,0,14,h); } c.fillStyle='rgba(255,220,160,.08)'; for(let y=16;y<h;y+=32) for(let x=8;x<w;x+=32){ c.beginPath(); c.arc(x,y,3,0,7); c.fill(); } },6,3);
+    wallM.map=wp; wallM.color=col('#ffffff'); wallM.needsUpdate=true;
+    const pan=ph('#ffffff',30,{map:woodT}); for(const [x,z,ry,w] of [[0,-5.95,0,18],[-8.95,0,PI/2,18],[8.95,0,-PI/2,18]]){ const b=add(new T.BoxGeometry(w,1.3,.1),pan,x,FY+.65,z); b.rotation.y=ry; const cap=add(new T.BoxGeometry(w,.08,.16),ph('#3a1a0a',40),x,FY+1.32,z); cap.rotation.y=ry; }
+    const ceil=add(new T.PlaneGeometry(26,20),ph('#14100c',5),0,6.6,0); ceil.rotation.x=PI/2;
+    // 霓虹招牌
+    const neon=tex(512,128,(c,w,h)=>{ c.fillStyle='rgba(0,0,0,0)'; c.clearRect(0,0,w,h); c.font='900 78px Arial'; c.textAlign='center'; c.textBaseline='middle'; c.shadowColor='#ff3ab0'; c.shadowBlur=24; c.strokeStyle='#ff6ac8'; c.lineWidth=6; c.strokeText('BILLIARDS',w/2,h/2); c.shadowBlur=10; c.fillStyle='#ffd0f0'; c.fillText('BILLIARDS',w/2,h/2); });
+    const nm=add(new T.PlaneGeometry(4.2,1.05),new T.MeshBasicMaterial({map:neon,transparent:true,fog:false}),0,3.3,-5.85); const nl=new T.PointLight(0xff4ab8,.35,8); nl.position.set(0,3.3,-5); scene.add(nl);
+    // 海報、飛鏢靶、計分黑板
+    const poster=(x,y,z,ry,c1,c2,txt)=>{ const t=tex(128,180,(c,w,h)=>{ const g=c.createLinearGradient(0,0,0,h); g.addColorStop(0,c1); g.addColorStop(1,c2); c.fillStyle=g; c.fillRect(0,0,w,h); c.fillStyle='#fff'; c.beginPath(); c.arc(w/2,h*.42,28,0,7); c.fill(); c.fillStyle='#14100c'; c.font='900 30px Arial'; c.textAlign='center'; c.textBaseline='middle'; c.fillText(txt,w/2,h*.42); c.fillStyle='rgba(255,255,255,.85)'; c.font='900 16px Arial'; c.fillText('POOL CLUB',w/2,h*.82); });
+      const f=add(new T.BoxGeometry(1.1,1.5,.06),ph('#2a1a10',40),x,y,z); f.rotation.y=ry; const m=add(new T.PlaneGeometry(.98,1.38),new T.MeshLambertMaterial({map:t}),0,0,.035,f); };
+    poster(-4.6,3.1,-5.9,0,'#e8402a','#5a1020','8'); poster(4.6,3.1,-5.9,0,'#2a6ae8','#0e2050','9');
+    { const db=new T.Group(); db.position.set(-8.9,2.9,-3.5); db.rotation.y=PI/2; scene.add(db); add(new T.CylinderGeometry(.55,.55,.08,32),ph('#1a1a1a',10),0,0,0,db).rotation.x=PI/2; const dt=tex(256,256,(c,w,h)=>{ for(let i=0;i<20;i++){ c.fillStyle=i%2?'#1a1a1a':'#f0e0c0'; c.beginPath(); c.moveTo(w/2,h/2); c.arc(w/2,h/2,w/2,i/20*7-0.16,(i+1)/20*6.283-0.16); c.fill(); } for(const [r,cl] of [[w*.47,'#c8202a'],[w*.43,null],[w*.3,'#2a8a3a'],[w*.26,null],[w*.08,'#2a8a3a'],[w*.04,'#c8202a']]){ if(!cl) continue; c.strokeStyle=cl; c.lineWidth=w*.04; c.beginPath(); c.arc(w/2,h/2,r,0,7); c.stroke(); } }); add(new T.CircleGeometry(.5,32),new T.MeshLambertMaterial({map:dt}),0,0,.045,db); }
+    { const bb=add(new T.BoxGeometry(1.8,1.1,.06),ph('#5a3a1a',20),8.9,3,2.2); bb.rotation.y=-PI/2; const bt=tex(256,160,(c,w,h)=>{ c.fillStyle='#1e2a22'; c.fillRect(0,0,w,h); c.fillStyle='rgba(255,255,255,.8)'; c.font='700 22px Arial'; c.fillText('TONIGHT',20,36); c.font='700 18px Arial'; c.fillText('8-BALL CUP  19:00',20,76); c.fillText('WIN  ★ ★ ★',20,112); }); add(new T.PlaneGeometry(1.66,.96),new T.MeshLambertMaterial({map:bt}),0,0,.035,bb); }
+    // 球桿架（遠牆）
+    { const rk=new T.Group(); rk.position.set(-6.2,FY,-5.75); scene.add(rk); add(new T.BoxGeometry(1.6,.1,.25),ph('#4a2410',40),0,.6,0,rk); add(new T.BoxGeometry(1.6,.1,.18),ph('#4a2410',40),0,3.2,0,rk); for(let i=0;i<6;i++){ const cu=add(new T.CylinderGeometry(.018,.03,2.9,8),ph(['#d8b07a','#c89060','#e0c090'][i%3],60),-.65+i*.26,1.95,0,rk); cu.rotation.z=.04; add(new T.CylinderGeometry(.031,.031,.5,8),ph('#1e1e24',40),-.65+i*.26+.02,.9,0,rk); } }
+    // 吧台＋高腳椅＋酒架（左牆）
+    { const bar=new T.Group(); bar.position.set(-7.2,FY,3); scene.add(bar); add(new T.BoxGeometry(1.2,1.15,4.4),ph('#3a1e0e',40,{map:woodT}),0,.58,0,bar).castShadow=true; add(new T.BoxGeometry(1.4,.08,4.6),ph('#1e1e1e',80),0,1.2,0,bar);
+      for(let k=0;k<3;k++){ const st=new T.Group(); st.position.set(1.2,0,-1.4+k*1.4); bar.add(st); add(new T.CylinderGeometry(.04,.04,.8,8),ph('#888',80),0,.4,0,st); add(new T.CylinderGeometry(.24,.22,.1,16),ph('#a8241a',30),0,.84,0,st); add(new T.TorusGeometry(.18,.015,6,16),ph('#888',80),0,.3,0,st).rotation.x=PI/2; }
+      for(let row=0;row<2;row++){ add(new T.BoxGeometry(.3,.05,3.6),ph('#4a2410',30),-.45,2.2+row*.7,0,bar); for(let k=0;k<9;k++){ const b=add(new T.CylinderGeometry(.06,.07,.36,10),ph(['#2a6a3a','#8a3a1a','#d8c070','#3a3a7a','#c8e0f0'][(k+row*2)%5],90,{transparent:true,opacity:.85}),-.45,2.42+row*.7,-1.6+k*.4,bar); add(new T.CylinderGeometry(.02,.03,.12,8),ph('#222',20),-.45,2.66+row*.7,-1.6+k*.4,bar); } } }
+    // 沙發＋茶几＋盆栽（右牆）
+    { const so=new T.Group(); so.position.set(7.6,FY,-3.5); scene.add(so); const sm=ph('#7a2a2a',15); add(new T.BoxGeometry(1,.5,3.2),sm,0,.3,0,so).castShadow=true; add(new T.BoxGeometry(.3,1.1,3.2),sm,.4,.6,0,so); add(new T.BoxGeometry(1,.75,.3),sm,0,.42,-1.6,so); add(new T.BoxGeometry(1,.75,.3),sm,0,.42,1.6,so);
+      const pl=new T.Group(); pl.position.set(7.8,FY,6.8); scene.add(pl); add(new T.CylinderGeometry(.35,.28,.7,16),ph('#c8b8a0',20),0,.35,0,pl); for(let k=0;k<7;k++){ const lf=add(new T.SphereGeometry(.4,10,8),ph(k%2?'#2a7a3a':'#3a8a48',10),Math.cos(k)*.3,1+k*.18,Math.sin(k*1.7)*.3,pl); lf.scale.set(1,.6,1); } }
+    // 燈下的光束
+    const cone=add(new T.CylinderGeometry(2.2,3.6,5.4,24,1,true),new T.MeshBasicMaterial({color:0xfff2c8,transparent:true,opacity:.03,side:T.DoubleSide,depthWrite:false,blending:T.AdditiveBlending,fog:false}),0,2.85,0); cone.scale.z=.42; }
   /* 號碼球：貼圖上有號碼圈（前後各一個），花色球有色帶 */
   const ballTex=n=>tex(256,128,(c,w,h)=>{ const bc=ballCol(n); c.fillStyle=n>8||n===0?'#f6f2e6':bc; c.fillRect(0,0,w,h); if(n>8){ c.fillStyle=bc; c.fillRect(0,h*.28,w,h*.44); }
     if(n===0){ c.fillStyle='#c81e1e'; for(const u of [.25,.75]){ c.beginPath(); c.arc(w*u,h*.5,5,0,7); c.fill(); } return; }
@@ -52,7 +77,7 @@ function make(T,o){ const {W,H,R,TX0,TX1,TY0,TY1,MX,MY,PK,HEAD,FOOT,ballCol,clot
   const ghost=add(new T.RingGeometry(BR*.92,BR,32),new T.MeshBasicMaterial({color:0xffffff,transparent:true,opacity:.8,side:T.DoubleSide})); ghost.rotation.x=-PI/2;
   const place=add(new T.RingGeometry(BR+.04,BR+.07,32),new T.MeshBasicMaterial({color:0x5fd068,side:T.DoubleSide})); place.rotation.x=-PI/2;
   /* 鏡頭：俯瞰整張桌（預設）或站在母球後面看（按 V 切換） */
-  const cam=new T.PerspectiveCamera(42,W/H,.05,60),camPos=new T.Vector3(0,7,4.6),camLook=new T.Vector3(0,0,.35),camT={p:new T.Vector3(),l:new T.Vector3()};
+  const cam=new T.PerspectiveCamera(42,W/H,.05,60),camPos=new T.Vector3(0,4.5,6.6),camLook=new T.Vector3(0,-.35,-.25),camT={p:new T.Vector3(),l:new T.Vector3()};
   let view='top',first=true;
   const ray=new T.Raycaster(),plane=new T.Plane(new T.Vector3(0,1,0),-BR),tmp=new T.Vector3();
   return {canvas:cv,
@@ -70,7 +95,7 @@ function make(T,o){ const {W,H,R,TX0,TX1,TY0,TY1,MX,MY,PK,HEAD,FOOT,ballCol,clot
       place.visible=!!st.place&&!c0.in; if(place.visible){ place.position.set(wx(c0.x),.004,wz(c0.y)); place.material.color.set(st.placeOk?0x5fd068:0xff4d4d); place.scale.setScalar(1+Math.sin(st.t*6)*.06); }
       // 鏡頭
       if(view==='cue'&&!c0.in&&(st.phase==='aim'||st.phase==='place')){ const a=st.ang,dx=Math.cos(a),dz=Math.sin(a),cx=wx(c0.x),cz=wz(c0.y); camT.p.set(cx-dx*2.6,1.15,cz-dz*2.6); camT.l.set(cx+dx*1.6,0,cz+dz*1.6); }
-      else { camT.p.set(0,7,4.6); camT.l.set(0,0,.35); }
+      else { camT.p.set(0,4.5,6.6); camT.l.set(0,-.35,-.25); }
       if(first){ camPos.copy(camT.p); camLook.copy(camT.l); first=false; } else { camPos.lerp(camT.p,.12); camLook.lerp(camT.l,.12); }
       cam.position.copy(camPos); cam.lookAt(camLook); r.render(scene,cam); },
     destroy(){ scene.traverse(o=>{ if(o.geometry) o.geometry.dispose(); if(o.material){ if(o.material.map) o.material.map.dispose(); o.material.dispose(); } }); r.dispose(); try{ r.forceContextLoss(); }catch(e){} } }; }

diff --git a/racer.js b/racer.js
@@ -295,6 +295,8 @@ function jetModel(L){ L=L||{}; const type=L.boat||'pwc',key='j:'+[type,L.hull,L.
     else { hull([[-1.7,.25],[-1.75,.75],[-.4,.85],[.9,.9],[1.9,.65],[2.25,.4],[1.9,.12],[-1.5,.1]],1.15,hm); box(1.17,.12,3.4,wh,0,.36,.1);
       box(.6,.2,1.45,dark,0,.98,-.6); ball(.5,hm,0,.95,.95,1,.5,1.6); box(.7,.32,.05,glass,0,1.18,1.0,-.6);
       limb([0,.98,.75],[0,1.3,.7],.06,dark); limb([-.5,1.32,.7],[.5,1.32,.7],.04,dark);
+      for(const sx of [-1,1]){ box(.62,.14,3.5,hm,sx*.3,.12,.1,0,0,sx*.42); box(.03,.09,2.9,wh,sx*.59,.62,.15); box(.03,.05,2.6,ph(L.vest||'#ff7a1a',60),sx*.595,.5,.2); box(.16,.26,1.5,hm,sx*.5,.92,-.45); box(.12,.03,1.4,dark,sx*.5,.79,-.45); }
+      box(1.0,.09,.42,dark,0,.52,-1.78); box(.5,.12,.1,ph('#b8bcc6',110),0,.45,-1.98); box(.9,.12,.5,hm,0,.9,1.55,-.3); add(new T.CylinderGeometry(.09,.09,.12,12),ph('#b8bcc6',110),0,.32,-1.85,PI/2);
       rider3(K,Object.assign(rd,{hip:[0,1.15,-.6],sh:[0,1.72,-.32],hand:[.5,1.32,.7],knee:[.38,1.1,.05],foot:[.38,.72,-.25]})); }
     for(const x of [-.25,.25]) box(.16,.06,.05,ph('#e82424'),x,type==='speed'?.85:.6,type==='speed'?-2.42:-1.78);
     return g; }}; }
@@ -744,6 +746,8 @@ function drawBack(c,VW,VH,TH,bx,by,t){
     if(TH.isle){ layer(mixC(TH.farCol2||'#5a9a6a',fogC,.45),VH*.06,0,2); } }
   else if(far!=='none'){ layer(mixC(TH.farCol2||'#8ab0c8',fogC,.3),VH*.2,0,2); layer(TH.farCol||'#5a8aa0',VH*.12,1,3);
     if(far==='mountain'||far==='snowmtn'){ c.fillStyle='rgba(0,0,0,.08)'; for(let i=0;i<9;i++){ const xx=((i*131-ox*.6)%VW+VW)%VW; c.beginPath(); c.moveTo(xx,hz-VH*.09); c.lineTo(xx+VW*.03,hz); c.lineTo(xx-VW*.01,hz); c.fill(); } } }
+  if(TH._fx&&!N&&!TH.rain){ const sx=VW*.72,sy=VH*.2; for(const [k,r,a] of [[.35,VH*.03,.25],[.6,VH*.05,.15],[1.25,VH*.02,.3]]){ const fx=sx+(VW/2-sx)*k*2,fy=sy+(hz-sy)*k*1.2; c.fillStyle='rgba(255,240,200,'+a+')'; c.beginPath(); c.arc(fx,fy,r,0,7); c.fill(); }
+    for(let i=0;i<5;i++){ const bx2=((t*30+i*170+ox*.2)%(VW+120))-60,by2=VH*(.16+(i%3)*.05)+Math.sin(t*2+i)*4,fl=Math.sin(t*10+i)*VH*.008; c.strokeStyle='rgba(40,40,60,.55)'; c.lineWidth=1.3; c.beginPath(); c.moveTo(bx2-6,by2-fl); c.quadraticCurveTo(bx2-2,by2-3,bx2,by2); c.quadraticCurveTo(bx2+2,by2-3,bx2+6,by2-fl); c.stroke(); } }
   /* 地平線的霧氣 */
   const hg=c.createLinearGradient(0,hz-VH*.16,0,hz+2); hg.addColorStop(0,'rgba(0,0,0,0)'); hg.addColorStop(1,fogC); c.globalAlpha=N?.55:.75; c.fillStyle=hg; c.fillRect(0,hz-VH*.16,VW,VH*.16+2); c.globalAlpha=1; }
 // 畫一個視窗：cam＝{x,z,airY,bx}，items＝每段要畫的動態物件
@@ -764,6 +768,12 @@ function renderView(c,vp,C,cam,items,t,o){ o=o||{}; const TH=C.TH,segs=C.segs,VW
     const poly=(xa,ya,wa,xb,yb,wb,col)=>{ c.fillStyle=col; c.beginPath(); c.moveTo(xa-wa,ya+.6); c.lineTo(xa+wa,ya+.6); c.lineTo(xb+wb,yb-.6); c.lineTo(xb-wb,yb-.6); c.fill(); }; /* 上下各多 0.6 像素，避免路面出現接縫細線 */
     if(TH.rumble){ const rc=F(TH.rumble[band]); poly(X1-W1*1.055,Y1,W1*.065,X2-W2*1.055,Y2,W2*.065,rc); poly(X1+W1*1.055,Y1,W1*.065,X2+W2*1.055,Y2,W2*.065,rc); } /* 只畫兩側路緣，整片畫在路面底下會從接縫透出細線 */
     poly(X1,Y1,W1,X2,Y2,W2,F(TH.road[band]));
+    if(C.G.id==='moto'&&n<85&&!TH.tracks){ const al=(1-f)*.9; for(let k=0;k<6;k++){ const u=((i*37+k*53)%97)/97*1.8-.9; c.globalAlpha=al*(k%2?.10:.07); poly(X1+W1*u,Y1,W1*.012,X2+W2*u,Y2,W2*.012,k%2?'#000':'#fff'); } c.globalAlpha=al*.13; for(let L=0;L<(TH.lanes||2);L++){ const k0=-1+(2*L+1)/(TH.lanes||2); for(const e of [-.22,.22]){ const kk=k0+e/(TH.lanes||2); poly(X1+W1*kk,Y1,W1*.028,X2+W2*kk,Y2,W2*.028,'#000'); } } c.globalAlpha=1;
+      if(band&&TH.night) for(let L=1;L<(TH.lanes||2);L++){ const k=-1+2*L/(TH.lanes||2); c.fillStyle='rgba(255,230,140,'+(1-f)+')'; c.fillRect(X1+W1*k-W1*.012,Y1-W1*.012,W1*.024,W1*.012); }
+      c.globalAlpha=(1-f)*.5; poly(X1-W1*1.13,Y1,W1*.02,X2-W2*1.13,Y2,W2*.02,'#8a8478'); poly(X1+W1*1.13,Y1,W1*.02,X2+W2*1.13,Y2,W2*.02,'#8a8478'); c.globalAlpha=1; } /* 機車：柏油顆粒、輪胎痕、路肩碎石、夜間反光貓眼 */
+    if(C.G.id==='jet'&&n<110){ const al=(1-f); for(let k=0;k<3;k++){ const ph=(i*13+k*41)%17,on=((i+Math.floor(t*5)+k*3)%7)===0; if(!on) continue; const u=((i*29+k*67)%100)/100*3-1.5; c.globalAlpha=al*.38; poly(X1+W1*u,Y1,W1*(.14+ph/120),X2+W2*u,Y2,W2*(.1+ph/140),'#ffffff'); }
+      if(!TH.night){ for(let k=0;k<2;k++){ const u=((i*53+k*31)%100)/100*2.4-1.2; if(Math.sin(t*7+i*1.3+k*2)>.75){ c.globalAlpha=al*.9; c.fillStyle='#fffbe8'; c.fillRect(X1+W1*u-1.5,Y1-1,3+W1*.01,1.6); } } }
+      c.globalAlpha=al*.16; poly(X1,Y1,W1*1.02,X2,Y2,W2*1.02,band?'#bfefff':'#0a3a6a'); c.globalAlpha=1; } /* 快艇：浪頭白浪、陽光閃光、水色明暗 */
     if(TH.tracks&&n<90){ const tw1=W1*.05,tw2=W2*.05,tc=F(shade(TH.road[0],.86)); for(let L=0;L<TH.lanes;L++){ const k=-1+(2*L+1)/TH.lanes; for(const e of [-.3,.3]){ const kk=k+e/TH.lanes; poly(X1+W1*kk,Y1,tw1,X2+W2*kk,Y2,tw2,tc); } } }
     if(TH.tracks&&n<60&&((i*7919)%23)===0) poly(X1+W1*(((i*31)%10)/10-.5),Y1,W1*.18,X2+W2*(((i*31)%10)/10-.5),Y2,W2*.18,F(shade(TH.road[0],.8)));
     if(TH.lanes&&band){ const lw1=W1*.03,lw2=W2*.03; for(let L=1;L<TH.lanes;L++){ const k=-1+2*L/TH.lanes; poly(X1+W1*k,Y1,lw1,X2+W2*k,Y2,lw2,F(TH.laneCol||'#ffffff')); } }
@@ -991,7 +1001,7 @@ const MOTO_TH={
   mountain:{sky:['#5aa4d8','#d8eef8'],far:'mountain',farCol:'#4f7080',farCol2:'#86a4b4',ground:['#4b8738','#468036'],road:['#58585e','#55555b'],rumble:['#c4c8cc','#b8bcc0'],edgeLine:'#ecece4',tracks:1,lanes:2,spr:[['pine',5],['rock',2],['cliff',1]],edge:['post',4,1.15],dens:.55,near:1.35,spread:2.2,fog:'#d0e4ec'},
   bridge:{sky:['#4aa4e0','#d8f0ff'],far:'sea',farCol:'#2f78b8',ground:['#2f6fa8','#2d6ca4'],road:['#58585e','#55555b'],edgeLine:'#ecece4',tracks:1,rumble:['#c8ccd4','#8a8e98'],lanes:3,spr:[['boat',1]],edge:['tower',40,1.3],dens:.04,near:3,spread:3,fog:'#cfe6f6',nosign:1},
   neon:{sky:['#120c28','#3a1f5a'],far:'city',farCol:'#241a40',farCol2:'#33275a',ground:['#2a2638','#27233a'],road:['#2f2c3a','#2d2a38'],tracks:1,rumble:['#ff3bd4','#3ddbd9'],lanes:3,spr:[['neon',6],['building',2]],edge:['lamp',6,1.22],dens:.7,near:1.45,spread:1.4,fog:'#2a1f45',night:1}};
-function motoTheme(S){ const T=Object.assign({},MOTO_TH[S.th]); const m=S.mod||'';
+function motoTheme(S){ const T=Object.assign({_fx:1},MOTO_TH[S.th]); const m=S.mod||'';
   if(m.includes('night')&&!T.night){ T.night=1; T.sky=['#0a1030','#2a3060']; T.fog='#1a2040'; T.ground=T.ground.map(x=>shade(x,.4)); T.road=T.road.map(x=>shade(x,.55)); T.farCol=shade(T.farCol||'#4a5a70',.45); T.farCol2=shade(T.farCol2||'#6a7a90',.45); }
   if(m.includes('sunset')){ T.sky=['#ff8a5a','#ffd8a0']; T.fog='#f4c8a0'; T.sun='rgba(255,200,120,.8)'; }
   if(m.includes('rain')){ T.rain=1; T.grip=.78; T.mist=1.6; if(!T.night){ T.sky=['#6a7280','#a8b0bc']; T.fog='#9aa2ae'; } }
@@ -1074,7 +1084,7 @@ const SLED={id:'sled',name:'雪山大滑降',camH:1150,kmh:110,down:1,roll:.07,t
   touch:{left:[{l:'◀',c:'ArrowLeft',big:true},{l:'▶',c:'ArrowRight',big:true}],right:[{l:'壓低',c:'ArrowUp'},{l:'煞',c:'ArrowDown'},{l:'衝刺',c:'KeyX',act:true}]}};
 // ---- 3. 浪尖快艇賽 ----
 const JET_BASE={sky:['#4ab0f0','#d8f4ff'],far:'sea',farCol:'#2a7fc0',isle:1,ground:['#2a86c8','#2680c0'],road:['#3aa0e0','#3498d8'],rumble:['#ffffff','#e8f6ff'],water:1,spr:[['island',3],['rock',2],['boat',1]],edge:['buoy',4,1.22],dens:.18,near:1.6,spread:3,fog:'#cfeaf8',nosign:1,rock:'#7a7068'};
-function jetTheme(S){ const T=Object.assign({},JET_BASE,S.tx||{}); const m=S.mod||'';
+function jetTheme(S){ const T=Object.assign({_fx:1},JET_BASE,S.tx||{}); const m=S.mod||'';
   if(m.includes('sunset')){ T.sky=['#ff8a5a','#ffd8a0']; T.fog='#f4c8a0'; T.sun='rgba(255,190,110,.8)'; T.road=['#e88a5a','#d88050'].map(x=>shade(x,.85)); T.ground=['#c8704a','#bc6a46']; }
   if(m.includes('night')){ T.night=1; T.sky=['#081028','#24305a']; T.fog='#1a2848'; T.road=['#1f4a78','#1c4470']; T.ground=['#14305a','#122c54']; T.farCol='#14305a'; }
   if(m.includes('rain')){ T.rain=1; T.mist=1.6; if(!T.night){ T.sky=['#5a6a7a','#a0aab4']; T.fog='#8a96a2'; } }

diff --git a/index.html b/index.html
@@ -275,7 +275,7 @@ body.padswap #pad{flex-direction:row-reverse} /* 方向鍵放右邊 */
 <div id="modal" hidden><div class="card" id="mcard"></div></div>
 
 <script>
-window.ARCADE_V=263; // 每次改版加一
+window.ARCADE_V=264; // 每次改版加一
 (function(){ var q=/github\.io$/.test(location.hostname)?'?v='+window.ARCADE_V:'';
   document.write(['stairs','kart','bomb','volley','dodge','soccer','bowl3d','bowl','baseball3d','baseball','purple','rummy','mahjong','meow','poker','dice','deliver3d','deliver','chess','qi','racer','brawl','bball3d','bball','h3d','golf3d','golf','pool3d','pool','blocks','drum','dance','tower','jelly','rich','space','royale','draw','wolf','passbomb','bubble','claw','tank','dash','spin','night','chase3d','chase','sumo','sky','boxing','ace','classic','hide','spy','sling','room','party'].map(function(n){ return '<script src="'+n+'.js'+q+'"><\/script>'; }).join('')); })();
 </script>
